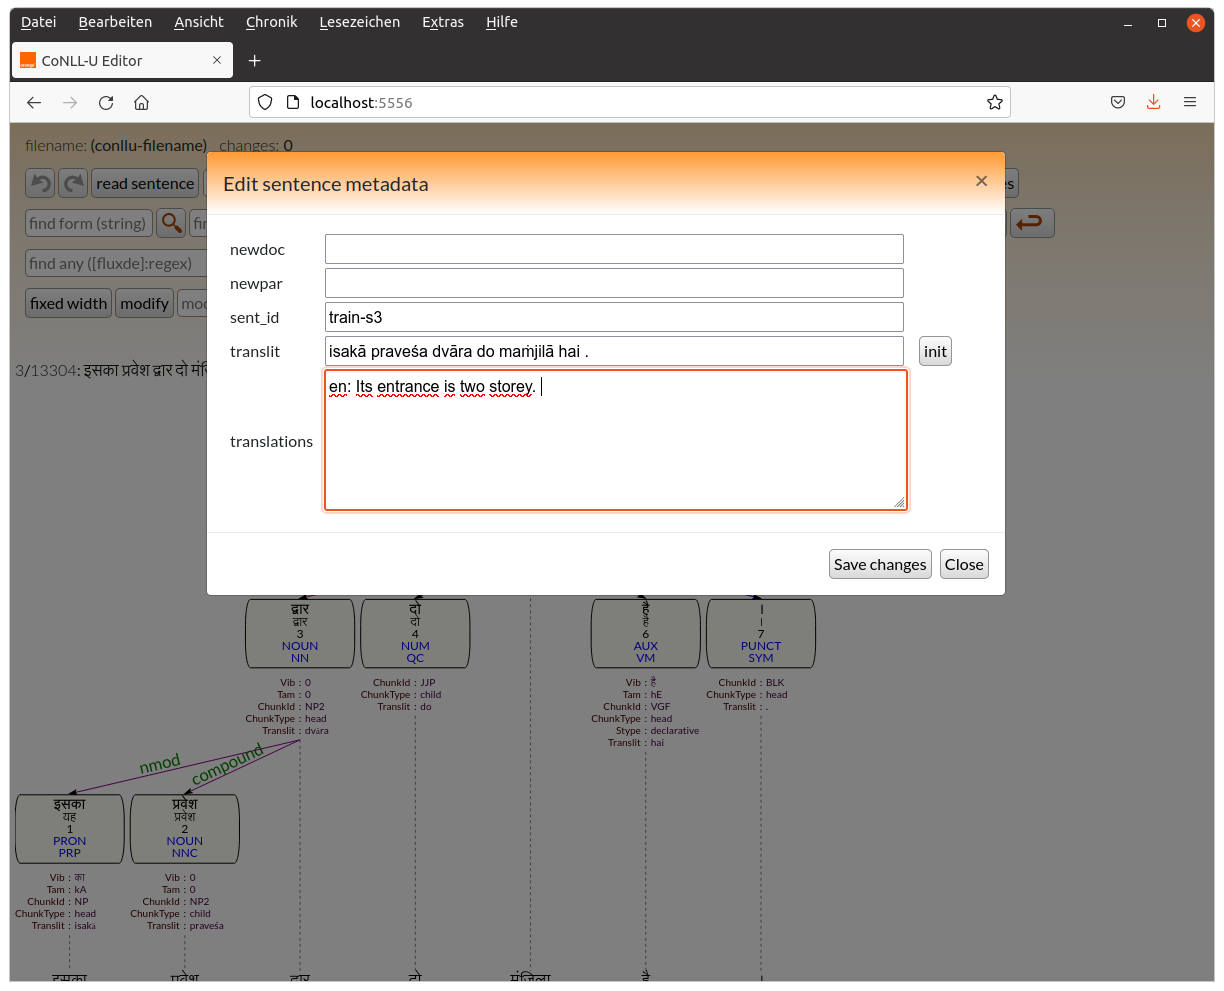
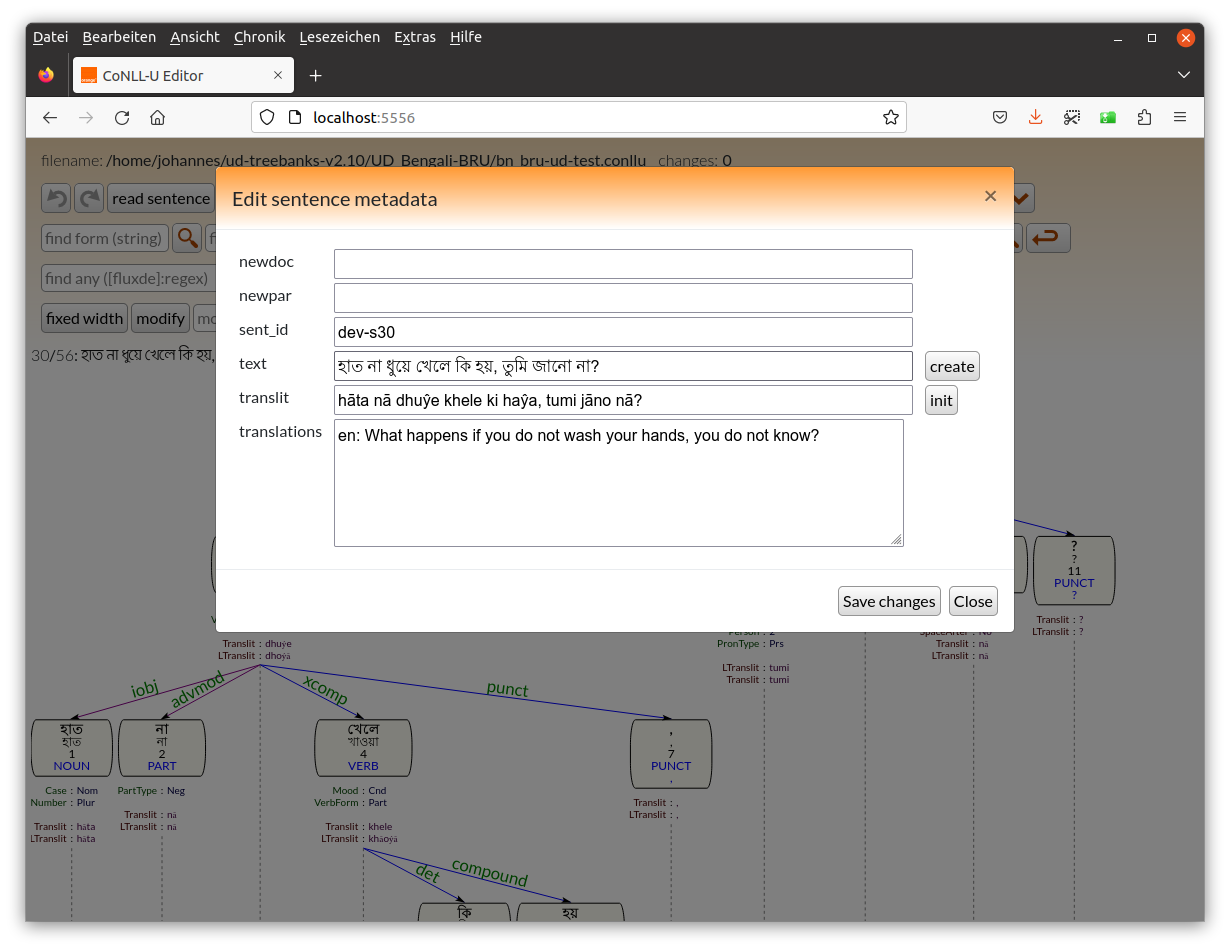
update

Changed region(s): [[0.0, 0.0, 0.9935, 1.0], [0.5278, 0.7937, 0.5588, 0.8547], [0.3105, 0.8853, 0.3415, 0.9158]]

diff --git a/README.md b/README.md
@@ -494,7 +494,8 @@ see [Mass Editing](doc/mass_editing.md)
 
 ## Metadata editing
 
-The CoNLL-U format provides some special comment lines to indicate whether the current sentence is the beginning of a new document, new paragraph, as well as its sentence id, translations (mostly into English) or transliterations.
+The CoNLL-U format provides some special comment lines to indicate whether the current sentence is the beginning of a new document, new paragraph, 
+the sentence itself, as well as its sentence id, translations (mostly into English) or transliterations.
 Clicking on `edit metadata` opens the Metadata dialogue.
 For translations, the translations must be prefixed with the language code as shown in the screen shot.
 If the words of the current sentence, contains transliteration information (MISC column, Translit field),
